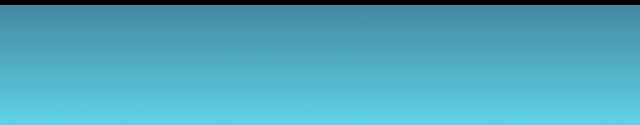
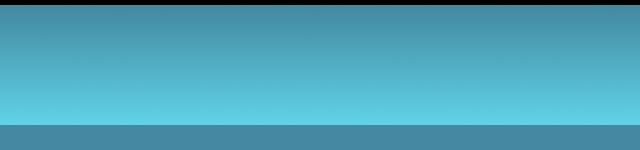
blue desing

Changed region(s): [[0.0, 0.816, 1.0, 1.0], [0.0, 0.024, 1.0, 0.048]]

diff --git a/application/views/css/menubar.css b/application/views/css/menubar.css
@@ -1,22 +1,17 @@
 .menubar {
 	/*background-color: #191919;*/	
-	background-color: #4489A1;
+	/*background-color: #4489A1;*/
 	background-image: url('../images/bg-menu.png');
 	color: #00C9D4;
 	text-align: center;	
-	font-size:17px;
-	word-spacing: 25px;
+	font-size:16px;
+	word-spacing: 30px;
 	letter-spacing: 4px;
+	width:900px;
 }
 
 .menubarNested {
-	padding-top: 7px;
-	height: 25px;
-	width: 900px;
-	margin: auto;
-	border-left: solid 1px #60d3e8;
-	border-right: solid 1px #60d3e8;
-	
+	padding-top: 3px;	
 }
 
 .menubar a:link {
@@ -36,5 +31,5 @@
 
 .menubar a:hover {
 	text-decoration: none;
-	color: #fff;
+	color: #fff;	
 }

diff --git a/application/views/css/default2.css b/application/views/css/default2.css
@@ -8,7 +8,7 @@ body{
 
 .headerTop{
 	background-image: url('../images/bg.png');
-	height:125px;
+	height:150px;
 }
 
 #wrapper{	
@@ -18,7 +18,7 @@ body{
 }
 
 #wrapper div{
-	height:120px;
+	height:145px;
 }
 
 #wrapper .left{

diff --git a/application/views/index2.php b/application/views/index2.php
@@ -21,19 +21,21 @@
 				<div class="left"></div>
 				<div class="right"></div>
 				<div class="middle">
+				
 					<div id="container" style="padding-left:35px;position:relative ">
 						<img src="application/views/images/1.jpg" alt="" width="900" height="120" />
 						<img src="application/views/images/2.jpg" alt="" width="900" height="120" />
 						<img src="application/views/images/8.jpg" alt="" width="900" height="120" />
 						<img src="application/views/images/9.jpg" alt="" width="900" height="120" />
 						<img src="application/views/images/10.jpg" alt="" width="900" height="120" />
-					</div>	
+					</div>
+					
+					<?php require_once 'menubar.php';?>
+						
 				</div>
 			</div>				
 				
-		</div>
-		
-		<?php require_once 'menubar.php'; ?>
+		</div>		
 		
 		<div style="width:928px; margin:auto; height:1000px; background-color: #fff">
 		

diff --git a/application/views/menubar.php b/application/views/menubar.php
@@ -1,5 +1,8 @@
 <div class="menubar">
 		<div class="menubarNested">
-			<a href="#">estaciones</a> <a href="#">noticias</a> <a href="#">mensajes</a> <a href="#">buscador</a>
+			<a href="#">estaciones</a> 
+			<a href="#">noticias</a> 
+			<a href="#">mensajes</a> 
+			<a href="#">buscador</a>
 		</div>
 </div>
